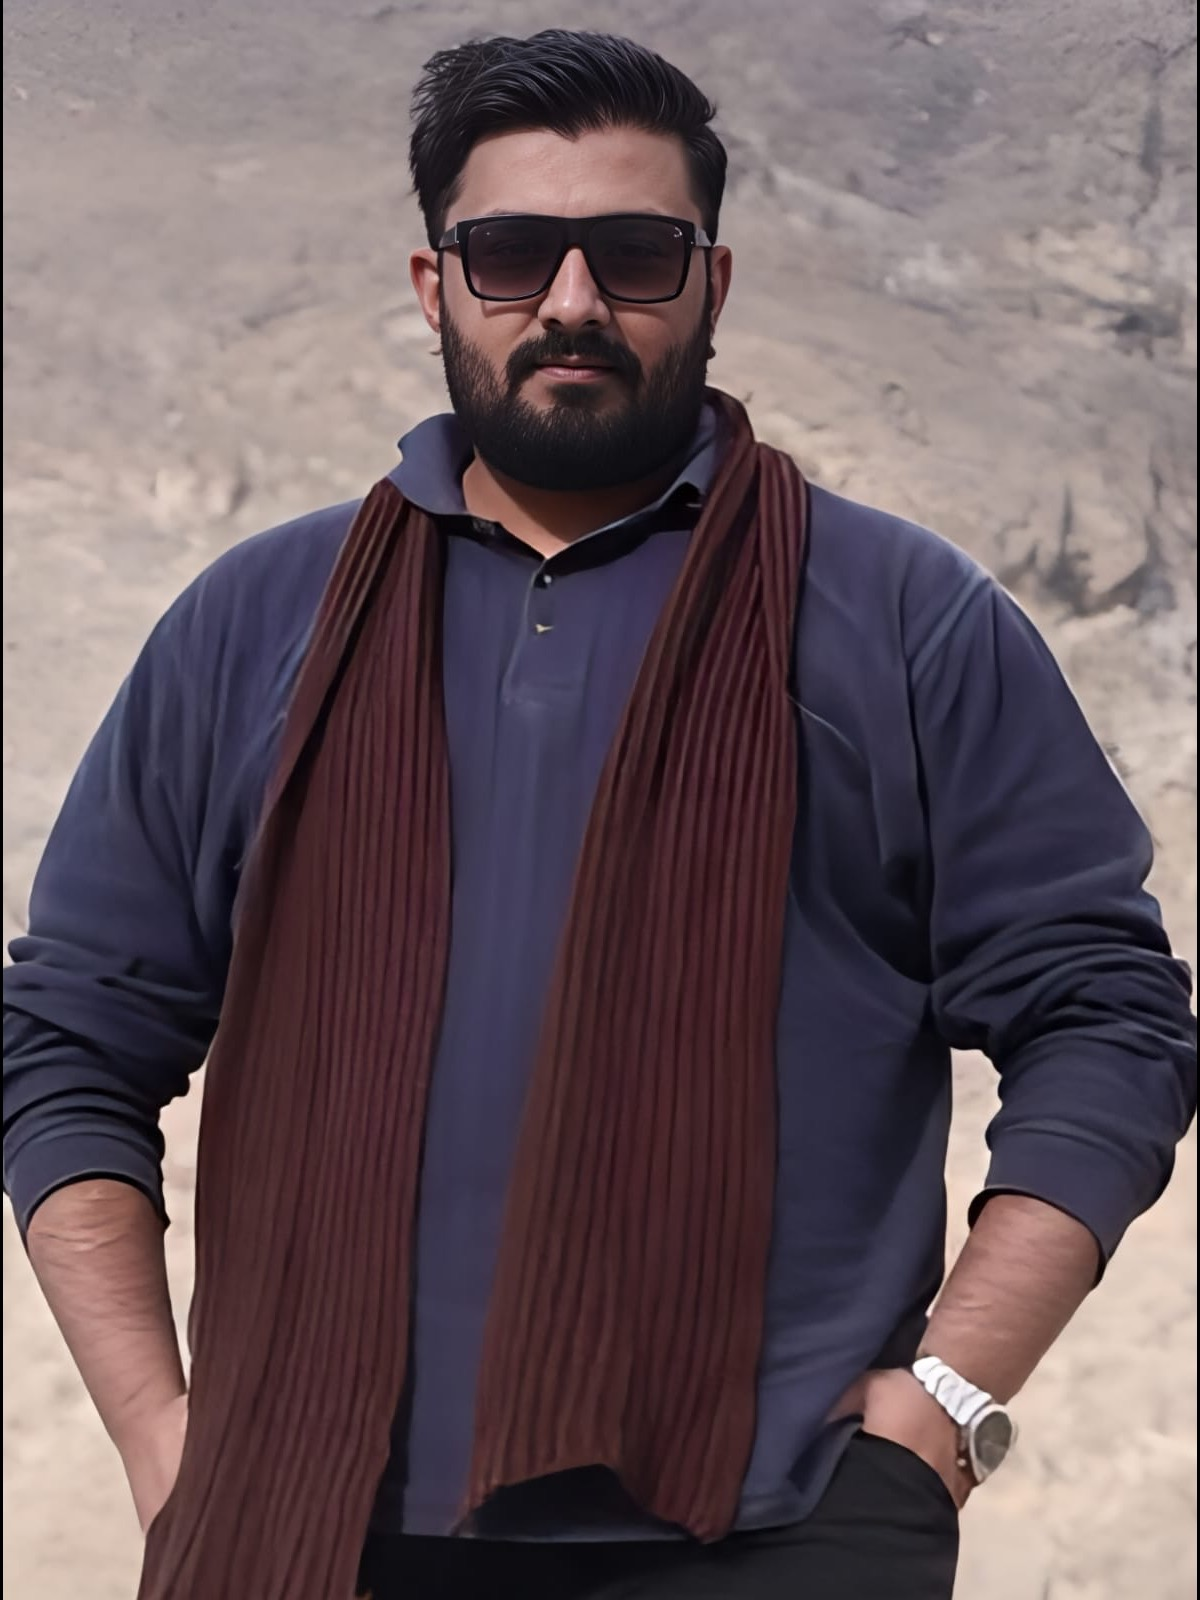
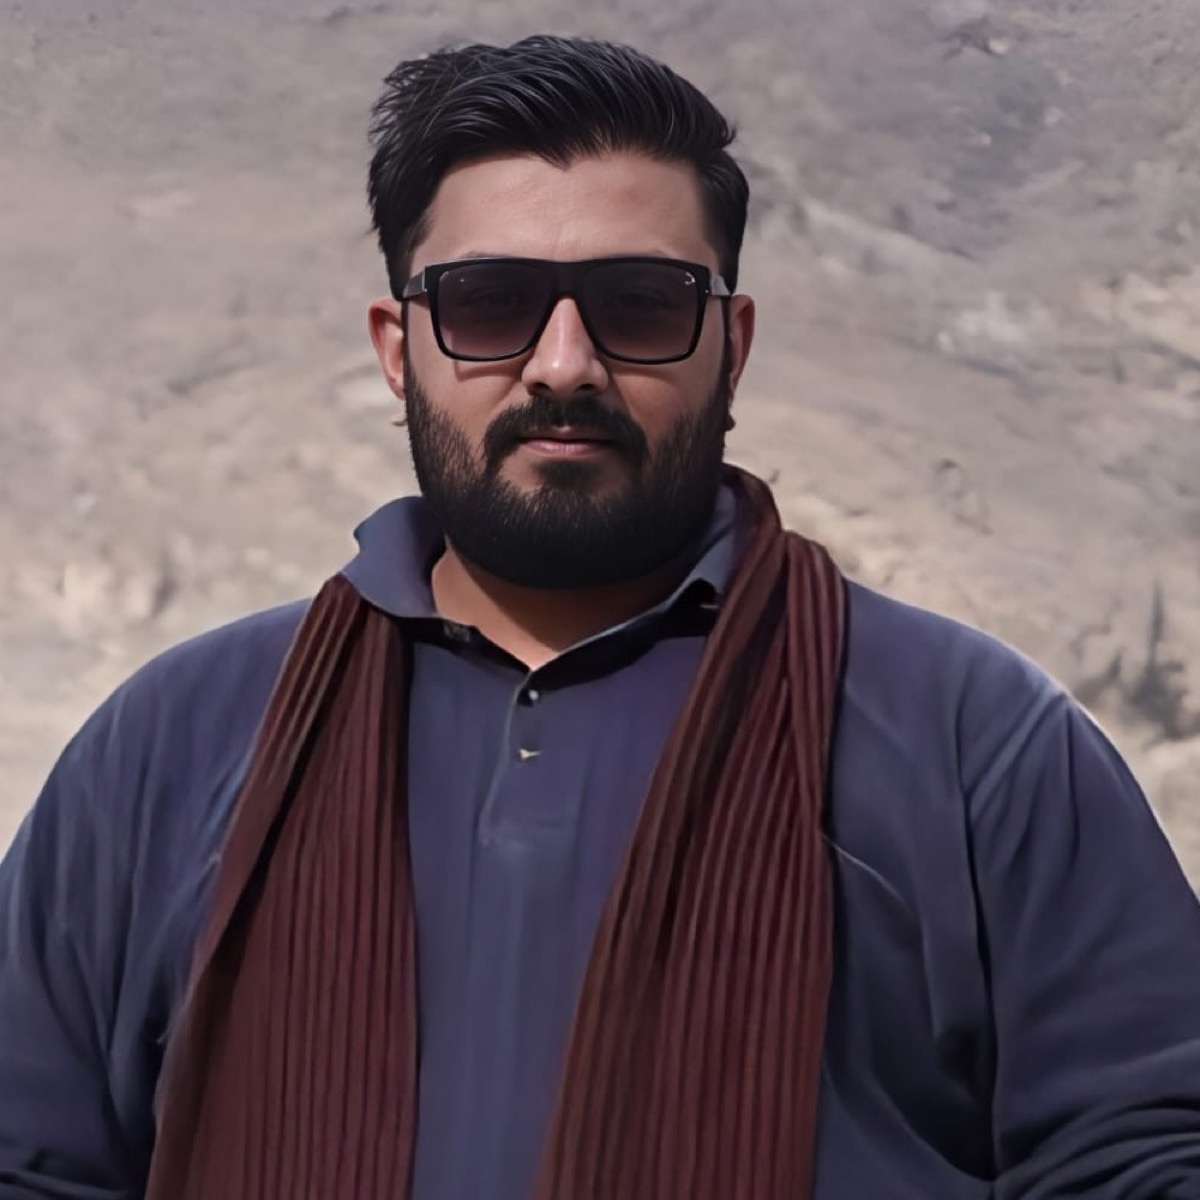
fix(brand): re-crop Faizan photo to face + restore FoundersSection bios to specified operator-voice text
Two corrections to the founder cards landed in earlier commits:

1. Faizan photo crop was center-of-portrait (sips -c 512 512 default), which on a 1194x1600 source pulled the chest/scarf area and missed the face. Re-cropped with sips --cropOffset 0 100 -c 1000 1000 on the source (face-centered tight square that keeps the hair crown in frame and pushes the shoulders to the lower edge), then resampled to 512, 1200, and 128. All three production variants regenerated from the new crop.

2. Bios in FoundersSection.tsx had drifted from the specified text and contained invented claims ("shipped the first agent stack out of necessity," "weekly narratives," "production runbooks"). Reverted to the exact operator-voice text anchored to what was documented about each founder's role:

   Faizan: "Faizan rebuilds account structure end-to-end when he sees broad-targeting waste past $50K/month spend. The pattern repeats across e-commerce DTC accounts. Most of his audits surface 20-35% budget leakage in the first hour."

   Anwaar: "Anwaar runs attribution rebuilds for B2B SaaS accounts where pipeline data lives in 5+ tools without integration. The signal his work is landing: a CMO can defend the marketing budget to the board 90 days in, without engineering's help."

Role strings normalized: "Co-Founder" -> "Co-founder" to match spec. Real-data rule restored. Lighthouse home mobile: perf 100, a11y 100, seo 100, bp 96 (standalone).

diff --git a/src/components/sections/FoundersSection.tsx b/src/components/sections/FoundersSection.tsx
@@ -15,17 +15,17 @@ type Founder = {
 const founders: Founder[] = [
   {
     name: 'M. Faizan Rafiq',
-    role: 'Co-Founder · Paid media + account restructure',
+    role: 'Co-founder · Paid media + account restructure',
     initials: 'MF',
     photo: '/team/faizan-square-512.jpg',
-    bio: 'Built the operations side of Digital Point. Eight-plus years running paid acquisition, attribution, and lead pipelines for growth-stage companies. Shipped the first agent stack out of necessity after watching too many ops hires churn through the same playbook.',
+    bio: 'Faizan rebuilds account structure end-to-end when he sees broad-targeting waste past $50K/month spend. The pattern repeats across e-commerce DTC accounts. Most of his audits surface 20-35% budget leakage in the first hour.',
     href: 'https://linkedin.com/in/faizanrafiq',
   },
   {
     name: 'Anwaar Tayyab',
-    role: 'Co-Founder · Attribution + data integration',
+    role: 'Co-founder · Attribution + data integration',
     initials: 'AT',
-    bio: 'Built the analytics and reporting infrastructure side. Turns messy data into clear weekly narratives. Treats every broken funnel like a puzzle. Writes the production runbooks every DPL agent ships with.',
+    bio: "Anwaar runs attribution rebuilds for B2B SaaS accounts where pipeline data lives in 5+ tools without integration. The signal his work is landing: a CMO can defend the marketing budget to the board 90 days in, without engineering's help.",
     href: 'https://linkedin.com/in/anwaartayyab',
   },
 ];
